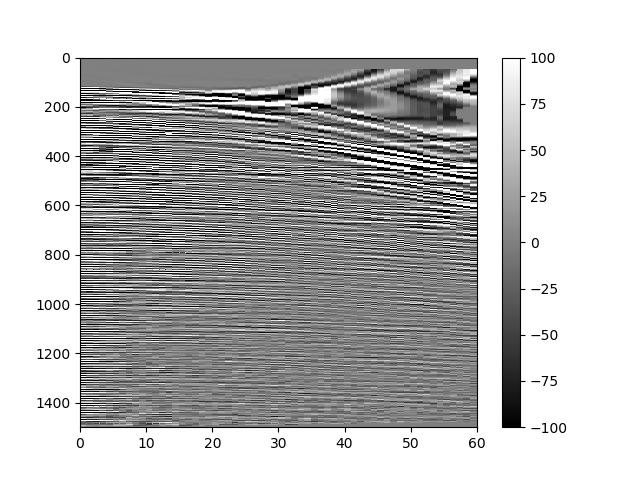
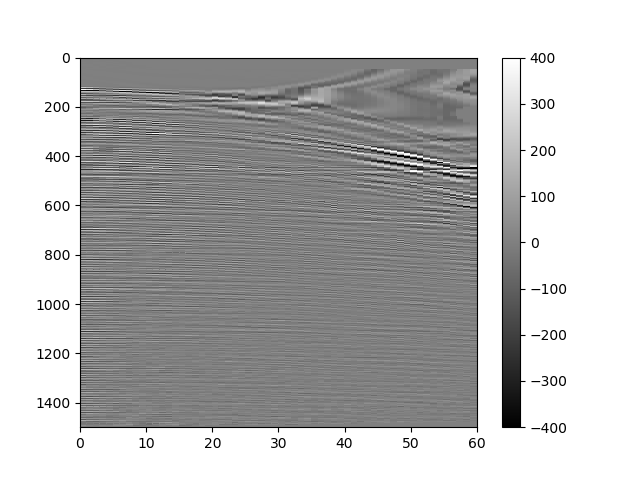
Stack working

diff --git a/main.py b/main.py
@@ -1,70 +1,66 @@
+import warnings
+warnings.simplefilter(action='ignore', category=FutureWarning)
 import json
 import numpy as np
-from cmp_stack import RadonTransform, NormalMoveOut
+from cmp_stack import cmp_stack
 import matplotlib.pyplot as plt
 import h5py
+from mpi4py import MPI
 
-
+comm = MPI.COMM_WORLD
+rank = comm.Get_rank()
+master = rank == 0
+world_size = comm.Get_size()
 
 
 if __name__ == '__main__':
-    with open('input/config.json', 'r') as fp:
-        config = json.load(fp)
+
+    config = None
+    muted_data = None
+    gathers_per_rank = None
+
+    if master:
+        with open('input/config.json', 'r') as fp:
+            config = json.load(fp)
+
+    config = comm.bcast(config, root=0)
 
     num_gathers = config['parameters']['num_gathers']
+    num_time_steps = config['parameters']['num_time_steps']
 
-    nmo = NormalMoveOut(config)
+    if master:
+        with h5py.File('input/cmp1900_mute_gain.hdf5', 'r') as data_file:
+            gathers_per_rank = [num_gathers // world_size + int(i < num_gathers % world_size) for i in range(world_size)]
+            print(gathers_per_rank)
+            print(sum(gathers_per_rank))
 
-    with h5py.File('input/cmp1900_mute_gain.hdf5', 'r') as data_file:
+            muted_data = data_file['cmp_gathers'][:, :, :gathers_per_rank[0]]
 
-        muted_data = data_file['cmp_gathers'][:, :, 0]
-        # plt.pcolormesh(data_file['cmp_gathers'][:, :, 1899], vmin=-100, vmax=100, cmap='gray')
-        # plt.gca().invert_yaxis()
-        # plt.colorbar()
-        # plt.savefig('figures/one_cmp_1900.png')
-        # plt.clf()
+            for i in range(1, world_size):
+                temp_data = data_file['cmp_gathers'][:, :, sum(gathers_per_rank[:i]):sum(gathers_per_rank[:i+1])]
+                comm.send(temp_data, dest=i, tag=0)
 
-    nmo(muted_data)
+    if not master:
+        muted_data = comm.recv(source=0, tag=0)
 
-    plt.pcolormesh(nmo.data_nmo, vmin=-100, vmax=100, cmap='gray')
-    plt.gca().invert_yaxis()
-    plt.colorbar()
-    plt.savefig('figures/one_cmp_nmo.png')
-    plt.clf()
+    stack = cmp_stack(muted_data, config)
 
-    # cmp1_data = np.fromfile('input/1cmp_gather.bin', dtype='float32').astype('float64').reshape(nmo.num_receivers,
-    #                                                                                             nmo.num_time_steps).T
-    #
-    # plt.pcolormesh(cmp1_data, cmap='gray')
-    # plt.gca().invert_yaxis()
-    # plt.colorbar()
-    # plt.savefig('figures/cmp1.png')
-    # plt.clf()
+    if not master:
+        comm.send(stack, dest=0, tag=1)
 
+    if master:
+        full_stack = np.zeros((num_time_steps, num_gathers))
+        full_stack[:, :gathers_per_rank[0]] = stack
+        for i in range(1, world_size):
+            temp_stack = comm.recv(source=i, tag=1)
+            full_stack[:, sum(gathers_per_rank[:i]):sum(gathers_per_rank[:(i + 1)])] = temp_stack
 
-    # data = np.fromfile('input/CMP_nmo_mute.bin', dtype='float32')
-    # data = data.astype('float64')
-    # data = data.reshape(config['parameters']['num_receivers'], config['parameters']['num_time_steps']).T
-    # flat_data = data.flatten()
-    #
-    # plt.pcolormesh(data, cmap='gray')
-    # plt.gca().invert_yaxis()
-    # plt.colorbar()
-    # plt.savefig('figures/data.png')
-    # plt.clf()
-    #
-    rt = RadonTransform(config)
-    rt(nmo.data_nmo_flat)
+        np.savetxt('stack.txt', full_stack)
 
-    plt.pcolormesh(rt.radon_domain_out, vmin=-3500, vmax=3500, cmap='gray')
-    plt.colorbar()
-    plt.gca().invert_yaxis()
-    plt.savefig('figures/radon_domain.png')
-    plt.clf()
-
-    plt.pcolormesh(rt.inverted_data, cmap='gray')
-    plt.colorbar()
-    plt.gca().invert_yaxis()
-    plt.savefig('figures/inverted_data.png')
+        plt.pcolormesh(full_stack, cmap='gray')
+        plt.gca().invert_yaxis()
+        plt.colorbar()
+        plt.savefig('figures/stack_1900.png')
+        plt.clf()
 
 

diff --git a/cmp_stack/radon_transform.py b/cmp_stack/radon_transform.py
@@ -8,13 +8,14 @@ from math import ceil
 
 class RadonTransform(Structure):
     _fields_ = [('num_time_steps', c_int), ('num_receivers', c_int), ('delta_t', c_double), ('delta_offset', c_double),
-                ('min_offset', c_double), ('p_min', c_double), ('p_max', c_double), ('delta_p', c_double),
+                ('min_offset', c_double), ('p_min', c_double), ('p_max', c_double), ('p_cutoff', c_double), ('delta_p', c_double),
                 ('num_p', c_int)]
 
-    def __init__(self, config):
+    def __init__(self, config, mode='all'):
         super().__init__()
         self._c_radon_transform = wrap_function('radon_transform', None, [POINTER(RadonTransform), POINTER(c_double),
-                                                                          POINTER(c_double)])
+                                                                          POINTER(c_double), c_int])
+        self.mode = mode
 
         self.num_time_steps = config['parameters']['num_time_steps']
         self.num_receivers = config['parameters']['num_receivers']
@@ -24,15 +25,28 @@ class RadonTransform(Structure):
 
         self.p_min = config['radon_parameters']['p_min']
         self.p_max = config['radon_parameters']['p_max']
+        self.p_cutoff = config['radon_parameters']['p_cutoff']
         self.delta_p = config['radon_parameters']['delta_p']
         self.num_p = ceil((self.p_max - self.p_min) / self.delta_p) + 1
+
+        if mode == 'all':
+            self.p_values = np.arange(self.p_min, self.p_max + self.delta_p, self.delta_p)
+            self.num_p = self.num_p
+        elif mode == 'primaries':
+            self.p_values = np.arange(self.p_min, self.p_cutoff + self.delta_p, self.delta_p)
+            self.num_p = len(self.p_values)
+        elif mode == 'multiples':
+            self.p_values = np.arange(self.p_cutoff, self.p_max + self.delta_p, self.delta_p)
+            self.num_p = len(self.p_values)
+            print(self.num_p)
+        else:
+            raise ValueError
 
         self._np_radon_domain_out = np.zeros(self.num_p * self.num_time_steps)
         self._radon_domain_out = self._np_radon_domain_out.ctypes.data_as(POINTER(c_double))
 
         self.offsets = np.arange(self.min_offset, self.min_offset + self.delta_offset * self.num_receivers,
                                  self.delta_offset)
-        self.p_values = np.arange(self.p_min, self.p_max + self.delta_p, self.delta_p)
         self.inverted_data = None
 
     def __call__(self, data):
@@ -40,10 +54,13 @@ class RadonTransform(Structure):
         self.inverse_radon_transform(data)
 
     def radon_transform(self, data):
+        data = data.flatten()
         _data = data.ctypes.data_as(POINTER(c_double))
-        self._c_radon_transform(self, _data, self._radon_domain_out)
+        mode_num = {'all': 0, 'primaries': 1, 'multiples': 2}
 
-    def inverse_radon_transform(self, data):
+        self._c_radon_transform(self, _data, self._radon_domain_out, mode_num[self.mode])
+
+    def inverse_radon_transform(self, data, mode='all'):
         num_freq = 2**(int(ceil(np.log2(self.num_time_steps)) + 1))
         delta_freq = 1 / self.delta_t
 

diff --git a/cmp_stack/cmp_c_library/library.c b/cmp_stack/cmp_c_library/library.c
@@ -5,14 +5,33 @@
 
 
 // Transforms a post-NMO CMP gather into the Radon Domain.
-void radon_transform(radon_parameters_t *params, const double *data, double *rad_domain_out)
+// if mode == 0, does full transform between p_max and p_min
+// if mode == 1, keeps primaries and discards multiples (keeps left of p_cutoff)
+// if mode == 2, keeps multiples and discards primaries (keeps right of p_cutoff)
+void radon_transform(radon_parameters_t *params, const double *data, double *rad_domain_out, int mode)
 {
-    printf("Beginning Radon transform...\n");
+
+//    printf("Beginning Radon transform...\n");
     // Intermediate values for the Radon Transform
     double t0, time, p, offset, amp;
+    double p_min, p_max;
     int num_time_steps = params->num_time_steps;
     double max_time = (num_time_steps - 1) * params->delta_t;
     int num_p = params->num_p;
+
+    switch (mode) {
+        case 1:
+            p_min = params->p_min;
+            p_max = params->p_cutoff;
+            break;
+        case 2:
+            p_min = params->p_cutoff;
+            p_max = params->p_max;
+            break;
+        default:
+            p_min = params->p_min;
+            p_max = params->p_max;
+    }
 
     // Ensures rad_domain_out is zeroed
     memset(rad_domain_out, 0, sizeof(double) * num_p * num_time_steps);
@@ -41,7 +60,7 @@ void radon_transform(radon_parameters_t *params, const double *data, double *rad
 
 
             for (int ip = 0; ip < num_p; ip++) {
-                p = params->p_min + params->delta_p * ip;
+                p = p_min + params->delta_p * ip;
                 time = t0 + p * offset * offset;
 
                 if (0 < time && time < max_time) {
@@ -59,5 +78,5 @@ void radon_transform(radon_parameters_t *params, const double *data, double *rad
     gsl_interp_accel_free(acc);
     free(interp_temp_amp);
     free(t_values);
-    printf("Finished Radon transform\n");
+//    printf("Finished Radon transform\n");
 }

diff --git a/cmp_stack/cmp_stack.py b/cmp_stack/cmp_stack.py
@@ -1,0 +1,32 @@
+from cmp_stack import RadonTransform, NormalMoveOut
+from cmp_stack.utilities import master
+import numpy as np
+
+
+# Assumes data is in 3D numpy array
+def cmp_stack(data, config):
+    nmo = NormalMoveOut(config)
+    radon_transform = RadonTransform(config, mode='multiples')
+
+    num_time_steps = data.shape[0]
+    num_receivers = data.shape[1]
+    num_gathers = data.shape[2]
+
+    stack_section = np.zeros((num_time_steps, num_gathers))
+
+    for i in range(num_gathers):
+        if master:
+            print('Running stack {}...'.format(i), flush=True)
+        data_slice = data[:, :, i]
+        nmo(data_slice)
+        radon_transform(nmo.data_nmo)
+        stack = np.sum(nmo.data_nmo - radon_transform.inverted_data, axis=1)
+        stack_section[:, i] = stack
+
+    return stack_section
+
+
+
+
+
+

diff --git a/cmp_stack/utilities.py b/cmp_stack/utilities.py
@@ -8,14 +8,13 @@ import sys
 _libdir = os.path.join(os.path.dirname(__file__), 'cmp_c_library/cmake-build-release')
 _libname = 'libcmp_c_library'
 
-# try:
-print(os.path.join(_libdir, "{}.so".format(_libname)))
-_lib = ctypes.CDLL(os.path.join(_libdir, "{}.so".format(_libname)))
-# except OSError:
-#     try:
-#         _lib = ctypes.CDLL(os.path.join(_libdir, "lib{}.dylib".format(_libname)))
-#     except OSError:
-#         sys.exit('Missing lib{0}.so or lib{0}.dylib'.format(_libname))
+try:
+    _lib = ctypes.CDLL(os.path.join(_libdir, "{}.so".format(_libname)))
+except OSError:
+    try:
+        _lib = ctypes.CDLL(os.path.join(_libdir, "lib{}.dylib".format(_libname)))
+    except OSError:
+        sys.exit('Missing lib{0}.so or lib{0}.dylib'.format(_libname))
 
 
 # Sets up MPI utilities

diff --git a/cmp_stack/cmp_c_library/library.h b/cmp_stack/cmp_c_library/library.h
@@ -7,11 +7,11 @@ typedef struct radon_parameters
 {
     int num_time_steps, num_receivers;
     double delta_t, delta_offset, min_offset;
-    double p_min, p_max, delta_p;
+    double p_min, p_max, p_cutoff, delta_p;
     int num_p;
 
 } radon_parameters_t;
 
-void radon_transform(radon_parameters_t *params, const double *data, double *rad_domain_out);
+void radon_transform(radon_parameters_t *params, const double *data, double *rad_domain_out, int mode);
 
 #endif

diff --git a/cmp_stack/generate_config.py b/cmp_stack/generate_config.py
@@ -15,6 +15,7 @@ def generate_config():
 
     radon_parameters = {'p_min': -6.0e-7,
                         'p_max': 6.0e-7,
+                        'p_cutoff': 2.0e-8,
                         'delta_p': 5.0e-9}
 
     return {'parameters': parameters, 'nmo_parameters': nmo_parameters, 'radon_parameters': radon_parameters}

diff --git a/plt.py b/plt.py
@@ -1,0 +1,11 @@
+import numpy as np
+import matplotlib.pyplot as plt
+from matplotlib import rcParams
+
+rcParams['figure.figsize'] = (15, 8)
+
+stack = np.loadtxt('stack.txt')
+
+plt.pcolormesh(stack, vmin=-3000, vmax=3000, cmap='gray')
+plt.gca().invert_yaxis()
+plt.savefig('figures/stack_1900_2.png', dpi=300)

diff --git a/cmp_stack/__init__.py b/cmp_stack/__init__.py
@@ -1,2 +1,3 @@
 from cmp_stack.radon_transform import RadonTransform
 from cmp_stack.nmo import NormalMoveOut
+from cmp_stack.cmp_stack import cmp_stack
